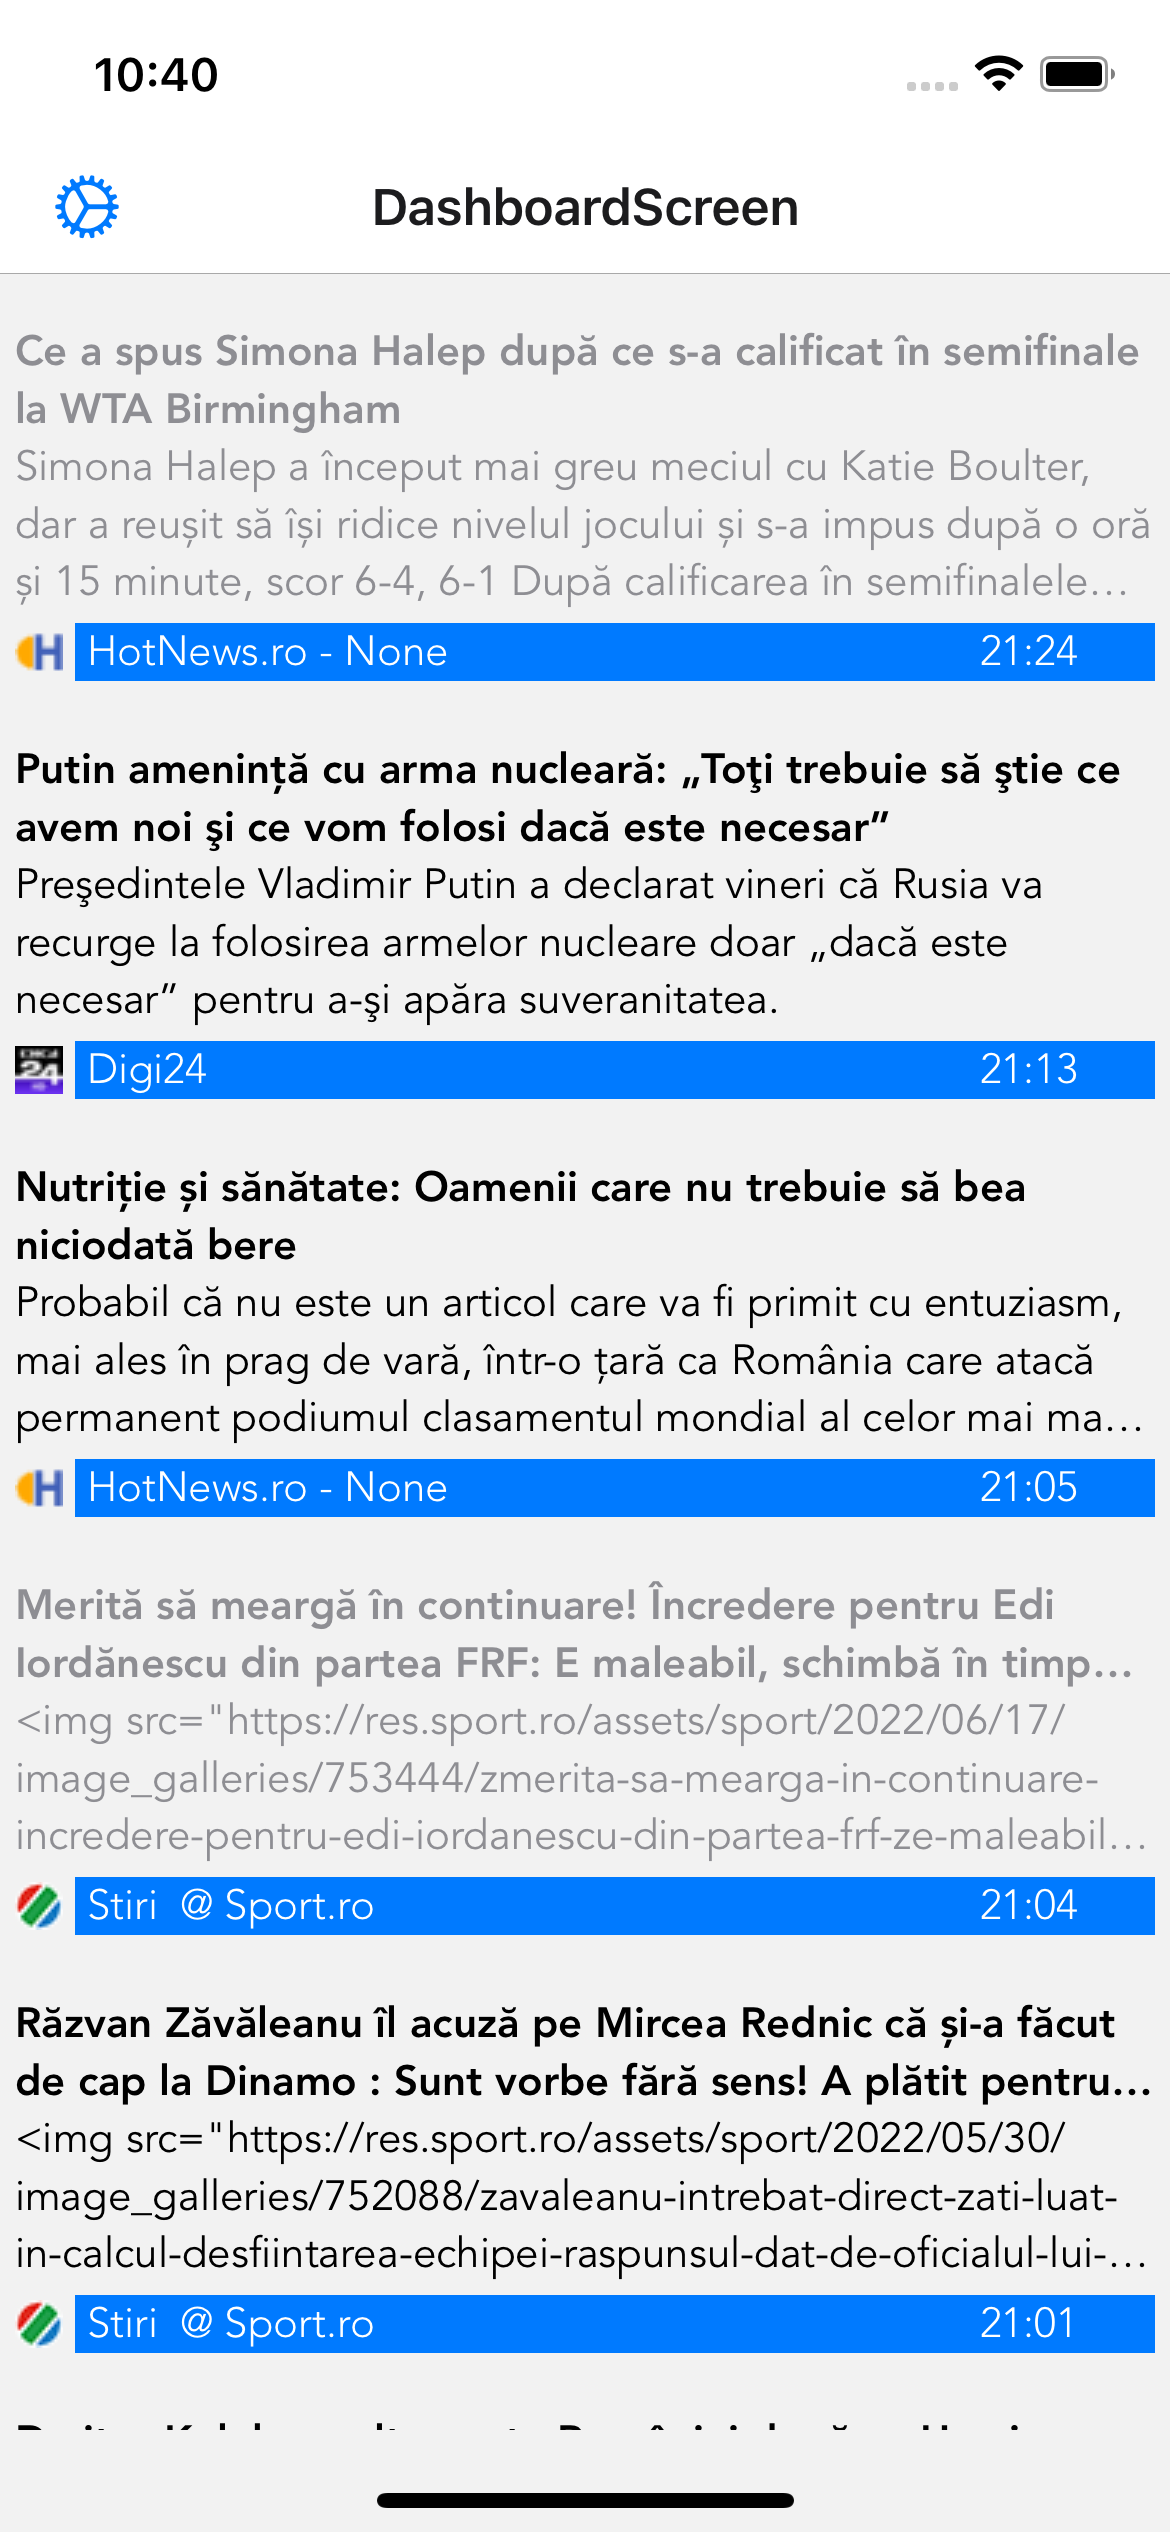
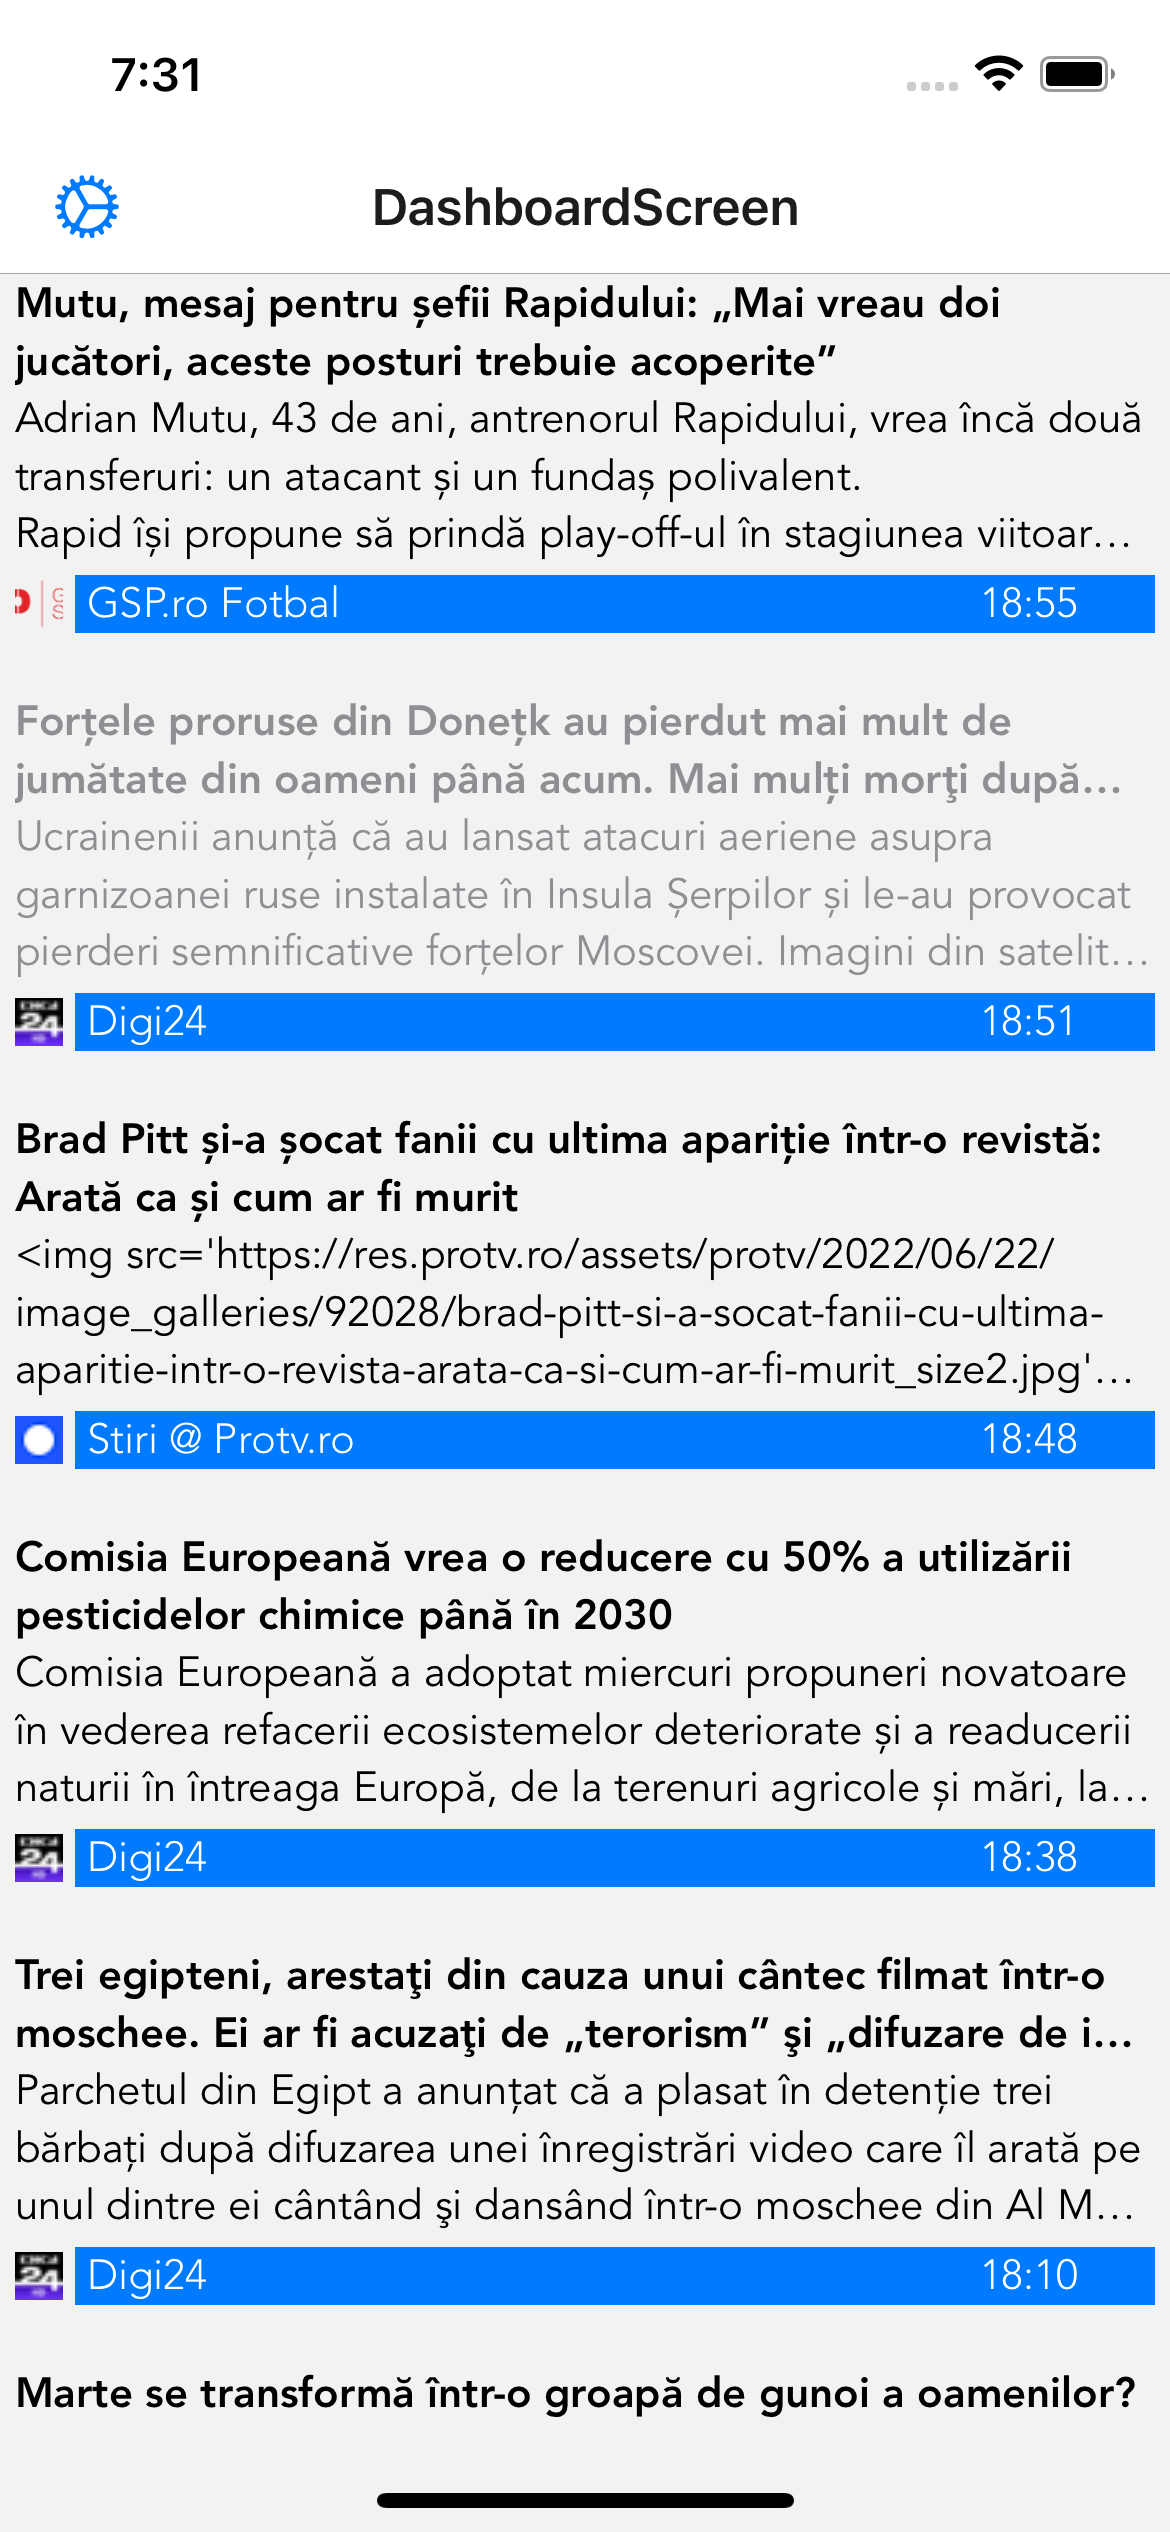
minor change

diff --git a/src/data/data.tsx b/src/data/data.tsx
@@ -7,7 +7,7 @@ export let FeedList: Feed[] = [];
 export let FeedListUrls: string[] = [
   // 'https://hotnews.ro/rss',
   'https://digi24.ro/rss',
-  'https://sport.ro/rss',
+  'https://www.gsp.ro/rss/fotbal-99.xml',
   'https://protv.ro/rss'
 ];
 export let ReadIdList: string[] = [];
